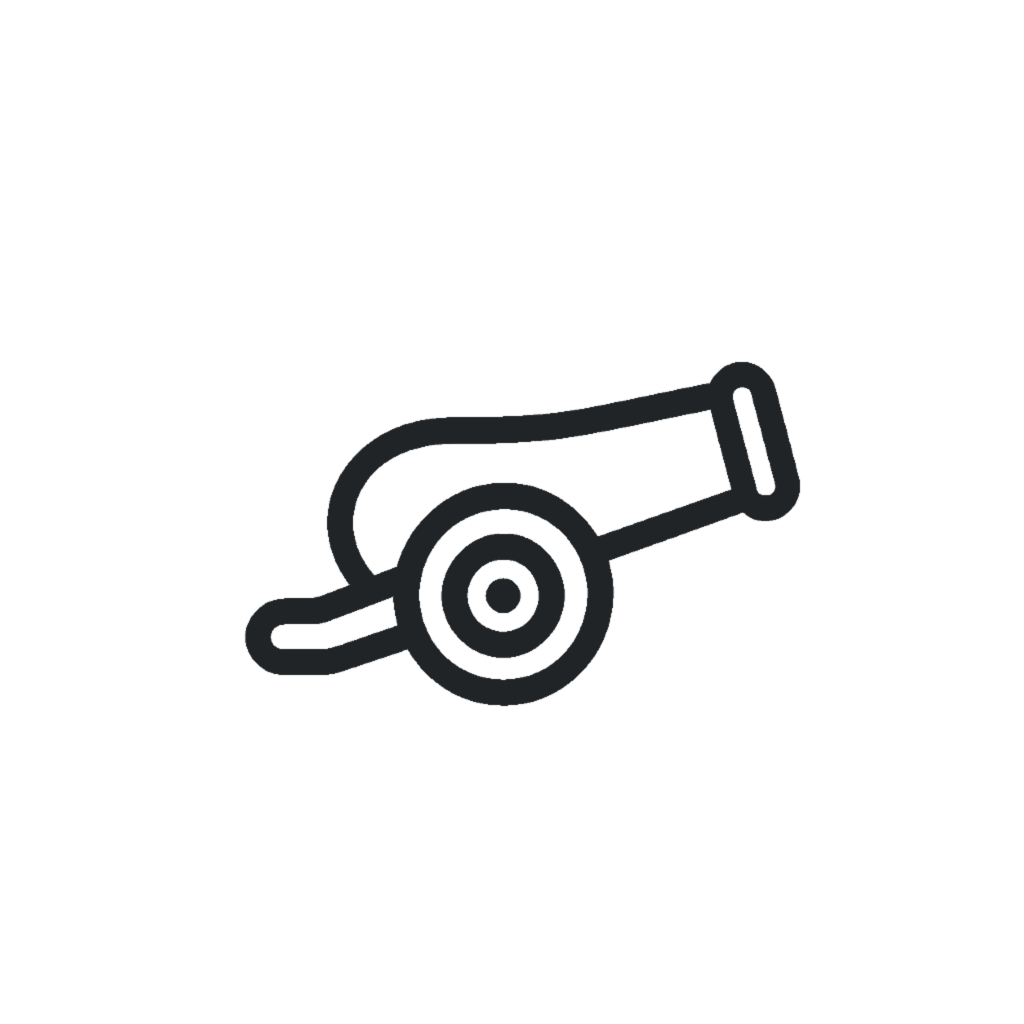
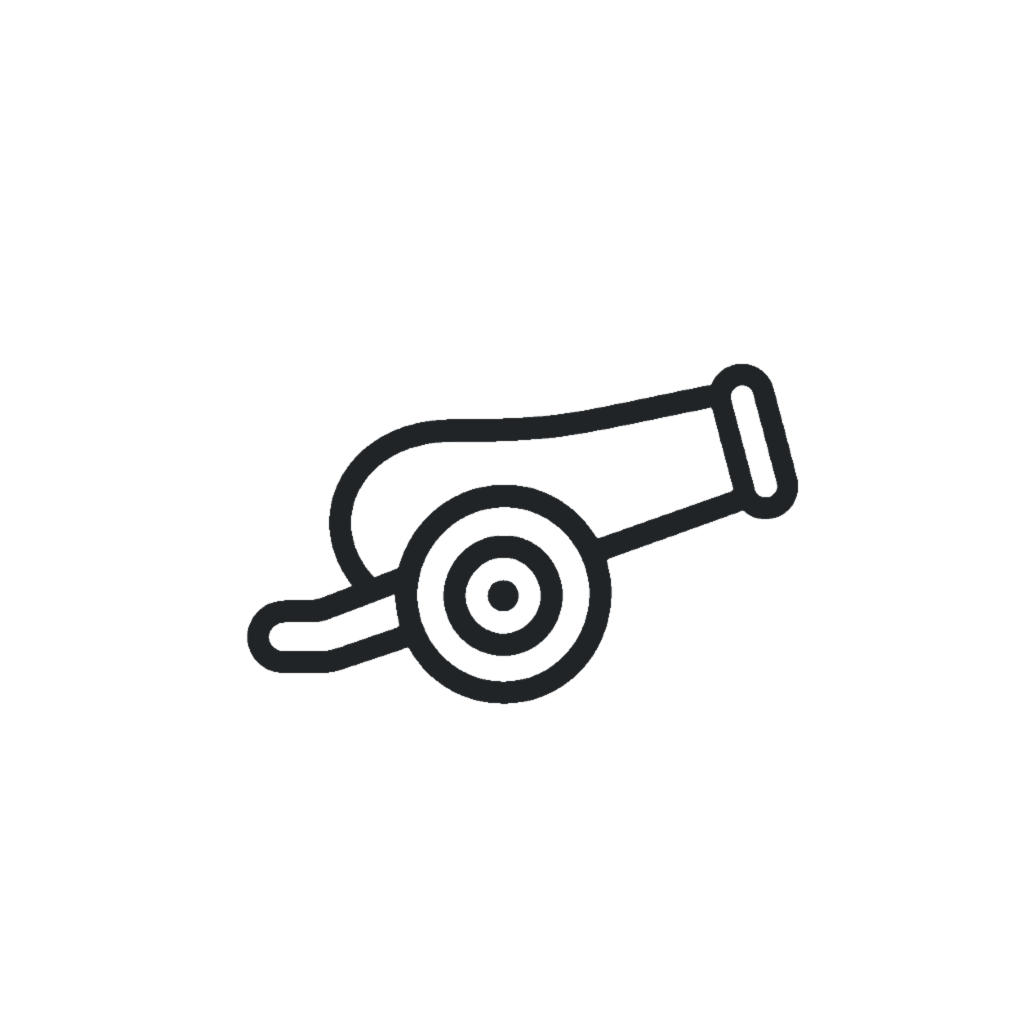
art(xiangqi): normalise the International strokes the right way up
e5ac3804 had the frame-scale correction inverted. A role whose art is drawn
at 114% of the disc (general, advisor, horse, treasure) or 122% (cannon)
renders its stroke HEAVIER than the same pixels drawn at 100% (soldiers),
not lighter, so that pass pushed the soldiers down to the lightest weight
in the set (2.15% of the disc) and the cannon up to 3.2%. Brian caught it
on the homepage viewer: both soldiers read thin against the ring.

Rebuilt from the pre-e5ac3804 originals, not the shipped files, so nothing
is eroded twice. On-disc weight = px * frame / 1024, target 2.75% (the disc
ring is 2.8). Result: general 2.78, advisor 2.67, elephant 2.69, horse 2.67,
chariot 2.82, cannon 2.74, soldier and crossed soldier 2.73, treasure 2.56;
before, the playing pieces spanned 2.26 (elephant) to 3.13 (crossed
soldier). Art version 14; the two href-pinning tests follow.

The duck's disc in this set is the same circle as red and black (r 46,
stroke 2.8); it reads lighter only because the yellow ring has less
contrast on the cream fill. Not changed.

Lesson: when art is drawn into a frame larger than its box, the stroke
scales UP with the frame; write the on-screen weight as px * frame / box
and check the sign against one piece on the rendered page before applying
it to the set, because a normalisation with the sign wrong is symmetric
enough to look right on a contact sheet and only wrong on the board.
Lesson-class: assets
Lesson-scope: code
Lesson-trigger: bug
[…]

Changed region(s): [[0.25, 0.3438, 0.7812, 0.6875]]

diff --git a/apps/web/src/xiangqi-piece-sets.test.ts b/apps/web/src/xiangqi-piece-sets.test.ts
@@ -83,8 +83,8 @@ describe('renderXiangqiPieceGlyphed', () => {
     const cannon = renderXiangqiPieceGlyphed({ color: 'black', role: 'cannon' }, 'international', {
       className: 'xq-piece',
     });
-    expect(general).toContain('/piece-sets/xiangqi/international/red-general.png?v=13');
-    expect(cannon).toContain('/piece-sets/xiangqi/international/black-cannon.png?v=13');
+    expect(general).toContain('/piece-sets/xiangqi/international/red-general.png?v=14');
+    expect(cannon).toContain('/piece-sets/xiangqi/international/black-cannon.png?v=14');
     expect(general).toContain('x="-7" y="-7" width="114" height="114"');
     expect(cannon).toContain('x="-11" y="-11" width="122" height="122"');
     expect(cannon).toContain('class="xq-piece"');
@@ -155,7 +155,7 @@ describe('renderXiangqiPieceGlyphed', () => {
     const chessStyle = renderXiangqiPieceGlyphed(piece, 'international-flat', { crossed: true });
 
     expect(international).toContain(
-      '/piece-sets/xiangqi/international/red-crossed-soldier.png?v=13',
+      '/piece-sets/xiangqi/international/red-crossed-soldier.png?v=14',
     );
     expect(chessStyle).toContain(
       '/piece-sets/xiangqi/international-flat/red-crossed-soldier.png?v=2',
@@ -165,8 +165,8 @@ describe('renderXiangqiPieceGlyphed', () => {
   it('renders the international Fortress treasure from the generated cutout art', () => {
     const red = internationalTreasureMarks('red');
     const black = internationalTreasureMarks('black');
-    expect(red).toContain('/piece-sets/xiangqi/international/red-treasure.png?v=13');
-    expect(black).toContain('/piece-sets/xiangqi/international/black-treasure.png?v=13');
+    expect(red).toContain('/piece-sets/xiangqi/international/red-treasure.png?v=14');
+    expect(black).toContain('/piece-sets/xiangqi/international/black-treasure.png?v=14');
     expect(red).toContain('x="-7" y="-7" width="114" height="114"');
     expect(red).toContain('fill="#fef0d7"');
     expect(red).toContain('stroke="#c30d0d"');

diff --git a/apps/web/src/xiangqi-piece-sets.ts b/apps/web/src/xiangqi-piece-sets.ts
@@ -333,7 +333,7 @@ function isImagePieceSet(set: XiangqiPieceSet): set is ImageXiangqiPieceSet {
 // query is needed to bust CDN/browser caches when the art changes (e.g. the v2
 // dobutsu-minimal swap). Bump on every animal-art change.
 const ANIMAL_ART_VERSION = 4;
-const INTERNATIONAL_ART_VERSION = 13;
+const INTERNATIONAL_ART_VERSION = 14;
 const INTERNATIONAL_FLAT_ART_VERSION = 2;
 
 function internationalPieceHref(piece: XiangqiPiece, crossed = false): string {

diff --git a/apps/web/src/xiangqi-pieces.test.ts b/apps/web/src/xiangqi-pieces.test.ts
@@ -71,7 +71,7 @@ describe('xiangqi piece sprites', () => {
       { color: 'red', role: 'general' },
       { pieceSet: 'international' },
     );
-    expect(svg).toContain('/piece-sets/xiangqi/international/red-general.png?v=13');
+    expect(svg).toContain('/piece-sets/xiangqi/international/red-general.png?v=14');
     expect(svg).toContain('stroke="#c30d0d"');
     expect(svg).not.toContain(XIANGQI_GLYPH_PATHS.帥);
   });
